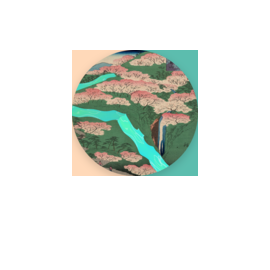
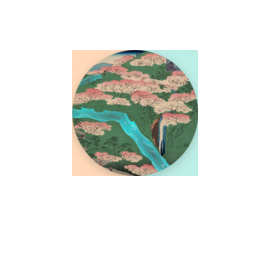
river placement fix and other tweaks

diff --git a/src/styles/light-theme.css b/src/styles/light-theme.css
@@ -1,69 +1,68 @@
-html[data-theme="light"]  {
+html[data-theme="light"] {
   --font-color: #363636;
   --body-color: peachpuff;
   --main-bg: #bceee6;
   --title: #a7327c;
   --link: #a7327c;
   --bg-img: url("../assets/light.jpeg");
-  --river-bg:  radial-gradient(
-    1.5em 6.28571em at 1.95em,
-    rgba(255, 255, 255, 0) 50%,
-    rgba(255, 255, 255, 0.25) 50%,
-    rgba(255, 255, 255, 0.25) 55%,
-    rgba(255, 255, 255, 0) 55%
-  )
-  0 0,
-radial-gradient(
-    1.5em 6.28571em at -0.45em,
-    rgba(255, 255, 255, 0) 50%,
-    rgba(255, 255, 255, 0.25) 50%,
-    rgba(255, 255, 255, 0.25) 55%,
-    rgba(255, 255, 255, 0) 55%
-  )
-  1.5em 5.5em,
-radial-gradient(
-    2.3em 4.57143em at 2.99em,
-    rgba(255, 255, 255, 0) 50%,
-    rgba(255, 255, 255, 0.3) 50%,
-    rgba(255, 255, 255, 0.3) 55%,
-    rgba(255, 255, 255, 0) 55%
-  )
-  0 0,
-radial-gradient(
-    2.3em 4.57143em at -0.69em,
-    rgba(255, 255, 255, 0) 50%,
-    rgba(255, 255, 255, 0.3) 50%,
-    rgba(255, 255, 255, 0.3) 55%,
-    rgba(255, 255, 255, 0) 55%
-  )
-  2.3em 4em,
-radial-gradient(
-    3.5em 6.28571em at 4.55em,
-    rgba(255, 255, 255, 0) 50%,
-    rgba(255, 255, 255, 0.25) 50%,
-    rgba(255, 255, 255, 0.25) 55%,
-    rgba(255, 255, 255, 0) 55%
-  )
-  0 0,
-radial-gradient(
-    3.5em 6.28571em at -1.05em,
-    rgba(255, 255, 255, 0) 50%,
-    rgba(255, 255, 255, 0.25) 50%,
-    rgba(255, 255, 255, 0.25) 55%,
-    rgba(255, 255, 255, 0) 55%
-  )
-  3.5em 5.5em,
-radial-gradient(#59f7ba, #2ce5e8);
---nav-bg: peachpuff;
[1 lines of base64/hex data omitted]
---arrows: invert(100%);
---river-display: block;
---river-width: 5%;
---river-left: 15%;
---river-top: 4%;
---river-height: 39%;
---river-transform: rotate(
-70deg);
---river-opacity: 0.8;
---river-animation: flow 5s infinite linear
+  --river-bg: radial-gradient(
+        1.5em 6.28571em at 1.95em,
+        rgba(255, 255, 255, 0) 50%,
+        rgba(255, 255, 255, 0.25) 50%,
+        rgba(255, 255, 255, 0.25) 55%,
+        rgba(255, 255, 255, 0) 55%
+      )
+      0 0,
+    radial-gradient(
+        1.5em 6.28571em at -0.45em,
+        rgba(255, 255, 255, 0) 50%,
+        rgba(255, 255, 255, 0.25) 50%,
+        rgba(255, 255, 255, 0.25) 55%,
+        rgba(255, 255, 255, 0) 55%
+      )
+      1.5em 5.5em,
+    radial-gradient(
+        2.3em 4.57143em at 2.99em,
+        rgba(255, 255, 255, 0) 50%,
+        rgba(255, 255, 255, 0.3) 50%,
+        rgba(255, 255, 255, 0.3) 55%,
+        rgba(255, 255, 255, 0) 55%
+      )
+      0 0,
+    radial-gradient(
+        2.3em 4.57143em at -0.69em,
+        rgba(255, 255, 255, 0) 50%,
+        rgba(255, 255, 255, 0.3) 50%,
+        rgba(255, 255, 255, 0.3) 55%,
+        rgba(255, 255, 255, 0) 55%
+      )
+      2.3em 4em,
+    radial-gradient(
+        3.5em 6.28571em at 4.55em,
+        rgba(255, 255, 255, 0) 50%,
+        rgba(255, 255, 255, 0.25) 50%,
+        rgba(255, 255, 255, 0.25) 55%,
+        rgba(255, 255, 255, 0) 55%
+      )
+      0 0,
+    radial-gradient(
+        3.5em 6.28571em at -1.05em,
+        rgba(255, 255, 255, 0) 50%,
+        rgba(255, 255, 255, 0.25) 50%,
+        rgba(255, 255, 255, 0.25) 55%,
+        rgba(255, 255, 255, 0) 55%
+      )
+      3.5em 5.5em,
+    radial-gradient(#4b7474, #2ce5e8);
+  --nav-bg: peachpuff;
[1 lines of base64/hex data omitted]
+  --arrows: invert(100%);
+  --river-display: block;
+  --river-width: 5%;
+  --river-left: 8%;
+  --river-top: 0%;
+  --river-height: 30%;
+  --river-transform: rotate(70deg);
+  --river-opacity: 0.8;
+  --river-animation: flow 5s infinite linear;
 }

diff --git a/src/styles/styles.css b/src/styles/styles.css
@@ -34,8 +34,8 @@ END Glitch hello-app default styles
 
 #theme-toggle:not(:checked) + label {
   background: #fffc00; /* fallback for old browsers */
-  background: -webkit-linear-gradient(to top, #fffc00, #ffffff); /* Chrome 10-25, Safari 5.1-6 */
-  background: linear-gradient(to top, #fffc00, #ffffff); /* W3C, IE 10+/ Edge, Firefox 16+, Chrome 26+, Opera 12+, Safari 7+ */
+  background: -webkit-linear-gradient(to bottom, #fffc00, #ffffff); /* Chrome 10-25, Safari 5.1-6 */
+  background: linear-gradient(to bottom, #fffc00, #ffffff); /* W3C, IE 10+/ Edge, Firefox 16+, Chrome 26+, Opera 12+, Safari 7+ */
 }
 
 #theme-toggle:checked + label {
@@ -58,13 +58,17 @@ END Glitch hello-app default styles
   background-size: 100% 100%;
   width: 75vw;
   height: 75vw;
-  left: 10vw;
+  top: 15vh;
+  left: 50%;
+  transform: translateX(-50%);
 }
-h1.title {  font-family: Shrikhand;
+h1.title a {  
+  font-family: Shrikhand !important;
   color: var(--title);
-  font-size: 2em;
+  font-size: calc(15px + 3vh);
   margin: 3rem;
   letter-spacing: 1px;
+  font-size: calc(15px + 3.5vh)
 }
 h2 {
   font-size: 1.5em !important;
@@ -83,7 +87,9 @@ body {
 section.main {
   background-color: var(--main-bg);
   min-height: 75vh;
-  padding: 40vh 0 10vh 3rem;
+  padding: 30vh 3rem 10vh 3rem;
+  position: relative;
+  top: 15vh;
 }
 .river-box {
   width: 90%;
@@ -104,6 +110,9 @@ div.nav-bar li {
   justify-content: center;
   align-items: center;
 }
+.nav-bar a {
+  font-size: 1.5em
+}
 .hey {
   font-size: calc(13px + 2.75vh);
 }
@@ -123,7 +132,9 @@ div.nav-bar li {
   #box {
     width: 40vw;
     height: 40vw;
-    left: 0
+    left: 0;
+    top: 0;
+    transform: none
   }
 /* river */
 
@@ -152,10 +163,7 @@ div.nav-bar li {
     justify-content: center;
     display: flex
   }
-  .nav-bar a:link,
-  .nav-bar a:visited,
-  .nav-bar a:hover,
-  .nav-bar a:active {
+  .nav-bar a {
     list-style-type: none;
     font-family: Lilita One;
     font-size: 1.5em;
@@ -250,7 +258,7 @@ div.nav-bar li {
 .river-box img.project {
   width: 25%;
   float: left;
-  margin: 1.5rem;
+  margin: 2rem;
 }
 .screenshot--portrait {
   width: 50%;

diff --git a/src/data/projects.js b/src/data/projects.js
@@ -6,7 +6,7 @@ const projects = [
     desc: "drag & drop poetry maker",
     thumbnail:
       hummingbird,
-    date: "September 2021"
+    date: "September 2021",
   }
 ];
 
